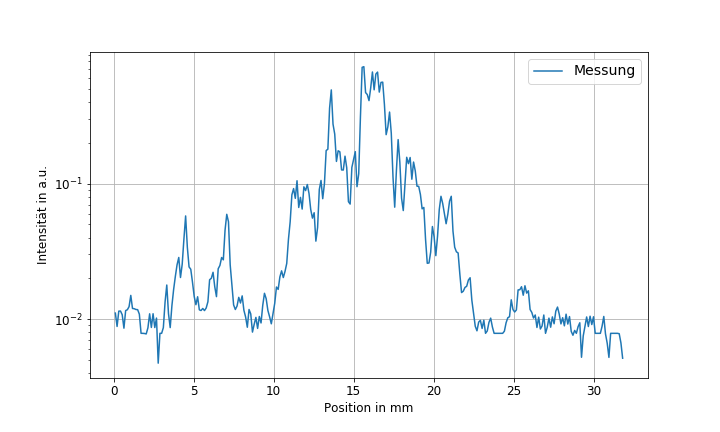
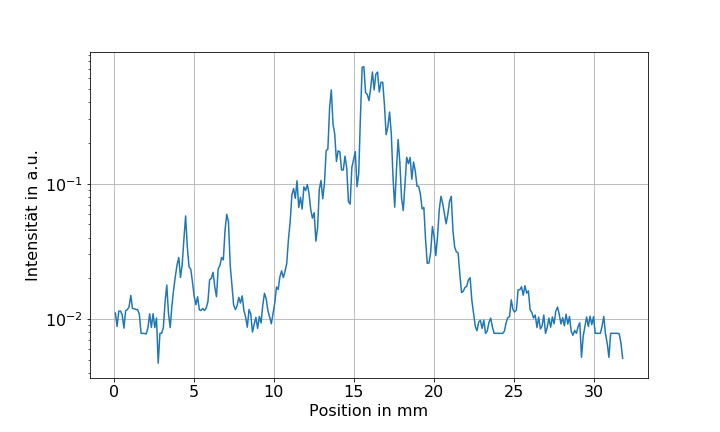
OFT 1 done

diff --git a/OFT/BA-C-04_OFT_17-06-2019.tex b/OFT/BA-C-04_OFT_17-06-2019.tex
@@ -175,7 +175,107 @@
 	\subsubsection*{Beobachtung und Datenanalyse}
 	% Allgemeine Beobachtungen
 	% Einflüsse von veränderten Parametern auf Messung
+	In \cref{fig_1_mix_1} sind sowohl aufgenommen Kamerabilder als auch logarithmische Intensitätsprofile abgebildet.
+	Die Profile wurden hierbei aus einem anderen Bild mit geringer Belichtungszeit gezogen, da eine Überbelichtung und somit ein Abschneiden der Peaks unerwünscht ist.
 
+	\begin{figure}[H]
+        \centering
+        \begin{subfigure}[b]{0.4\textwidth}
+            \centering
+            \includegraphics[width=\textwidth]{raw/1/1_fern_bild}
+            \caption%
+            {Kamera, $d=\SI{2580}{mm}$}
+            \label{fig_1_fern_bild}
+        \end{subfigure}
+        \hfill
+        \begin{subfigure}[b]{0.55\textwidth}
+            \centering
+            \includegraphics[width=\textwidth]{img/1/1_fern_plot}
+            \caption[]%
+            {Profil, $d=\SI{2580}{mm}$}
+            \label{fig_1_fern_plot}
+        \end{subfigure}
+        \vskip\baselineskip
+        \begin{subfigure}[b]{0.4\textwidth}
+            \centering
+            \includegraphics[width=\textwidth]{raw/1/1_mittel_bild}
+            \caption[]%
+            {Kamera, $d=\SI{1620}{mm}$}
+            \label{fig_mittel_bild}
+        \end{subfigure}
+        \quad
+        \begin{subfigure}[b]{0.55\textwidth}
+            \centering
+            \includegraphics[width=\textwidth]{img/1/1_mittel_plot}
+            \caption[]%
+            {Profil, $d=\SI{1620}{m}$}
+            \label{fig_mittel_plot}
+        \end{subfigure}
+        \vskip\baselineskip
+        \begin{subfigure}[b]{0.4\textwidth}
+            \centering
+            \includegraphics[width=\textwidth]{raw/1/1_mittel2_bild}
+            \caption[]%
+            {Kamera, $d=\SI{1060}{mm}$}
+            \label{fig_mittel2_bild}
+        \end{subfigure}
+        \quad
+        \begin{subfigure}[b]{0.55\textwidth}
+            \centering
+            \includegraphics[width=\textwidth]{img/1/1_mittel2_plot}
+            \caption[]%
+            {Profil, $d=\SI{1060}{m}$}
+            \label{fig_mittel2_plot}
+        \end{subfigure}
+        \caption%
+        {
+				Kameraaufnahmen und Intensitätsprofile für verschiedene Abstände $d$.
+				Die Profile wurden aus anderen Bildern, mit geringerer Belichtungszeit extrahiert.
+				Die x-Achse \enquote{Position} sagt nichts über die absolute Position des Maximums aus, sondern dient lediglich dem Bestimmen von Abständen zwischen Peaks.
+				}
+        \label{fig_1_mix_1}
+    \end{figure}
+	\begin{figure}[H]\ContinuedFloat
+        \centering
+        \begin{subfigure}[b]{0.4\textwidth}
+            \centering
+            \includegraphics[width=\textwidth]{raw/1/1_nah_bild}
+            \caption%
+            {Kamera, $d=\SI{370}{mm}$}
+            \label{fig_1_nah_bild}
+        \end{subfigure}
+        \hfill
+        \begin{subfigure}[b]{0.55\textwidth}
+            \centering
+            \includegraphics[width=\textwidth]{img/1/1_nah_plot}
+            \caption[]%
+            {Profil, $d=\SI{370}{mm}$}
+            \label{fig_1_nah_plot}
+        \end{subfigure}
+        \vskip\baselineskip
+        \begin{subfigure}[b]{0.4\textwidth}
+            \centering
+            \includegraphics[width=\textwidth]{raw/1/1_ultra_bild}
+            \caption[]%
+            {Kamera, $d=\SI{150}{mm}$}
+            \label{fig_ultra_bild}
+        \end{subfigure}
+        \quad
+        \begin{subfigure}[b]{0.55\textwidth}
+            \centering
+            \includegraphics[width=\textwidth]{img/1/1_ultra_plot}
+            \caption[]%
+            {Profil, $d=\SI{150}{m}$}
+            \label{fig_ultra_plot}
+        \end{subfigure}
+        \caption%
+        {
+				Kameraaufnahmen und Intensitätsprofile für verschiedene Abstände $d$.
+				Die Profile wurden aus anderen Bildern, mit geringerer Belichtungszeit extrahiert.
+				Die x-Achse \enquote{Position} sagt nichts über die absolute Position des Maximums aus, sondern dient lediglich dem Bestimmen von Abständen zwischen Peaks. (Forts.)
+				}
+        \label{fig_1_mix_2}
+    \end{figure}
 	\subsubsection*{Diskussion}
 	% Bezug/Nutzen oder sonst was
 	% auch hier die Hypothese wiederholen

diff --git a/OFT/scripts/gen.py b/OFT/scripts/gen.py
@@ -24,7 +24,7 @@ usd=unp.std_devs
 
 fig_size = (10, 6)
 fig_legendsize = 14
-fig_labelsize = 12
+fig_labelsize = 16
 matplotlib.rcParams.update({'font.size': fig_labelsize})
 
 colors = dict(mcolors.BASE_COLORS, **mcolors.CSS4_COLORS)
@@ -137,11 +137,11 @@ for name in names:
     nnname = nname.split('.')[0]
 
     fig=plt.figure(figsize=fig_size)
-    plt.plot(data[:,0]*1000, data[:,1], '-',label='Messung')
+    plt.plot(data[:,0]*1000, data[:,1], '-')
 
     plt.gca().set_yscale('log');
     #plt.gca().set_xscale('log');
-    plt.legend(prop={'size':fig_legendsize})
+    #plt.legend(prop={'size':fig_legendsize})
     plt.grid()
     plt.ylabel('Intensität in a.u.')
     plt.tick_params(labelsize=fig_labelsize)
